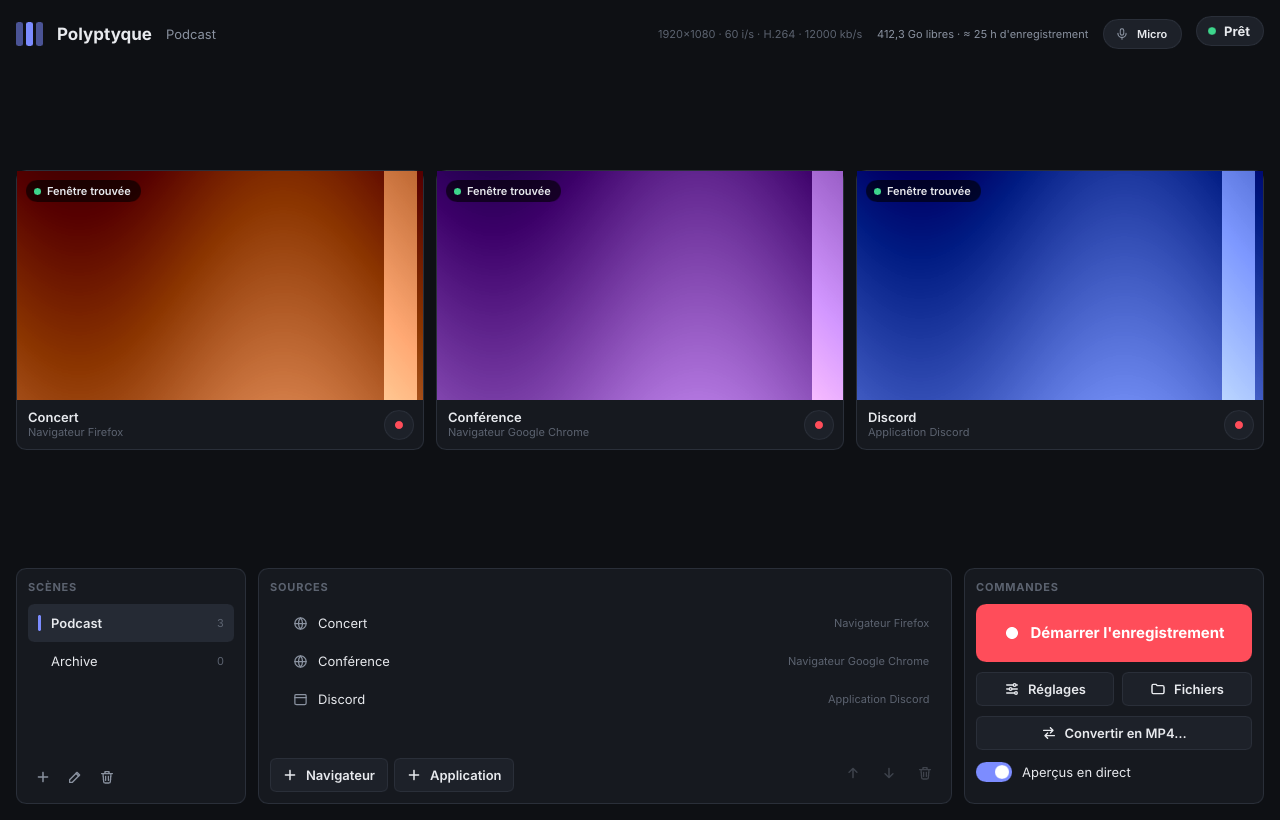
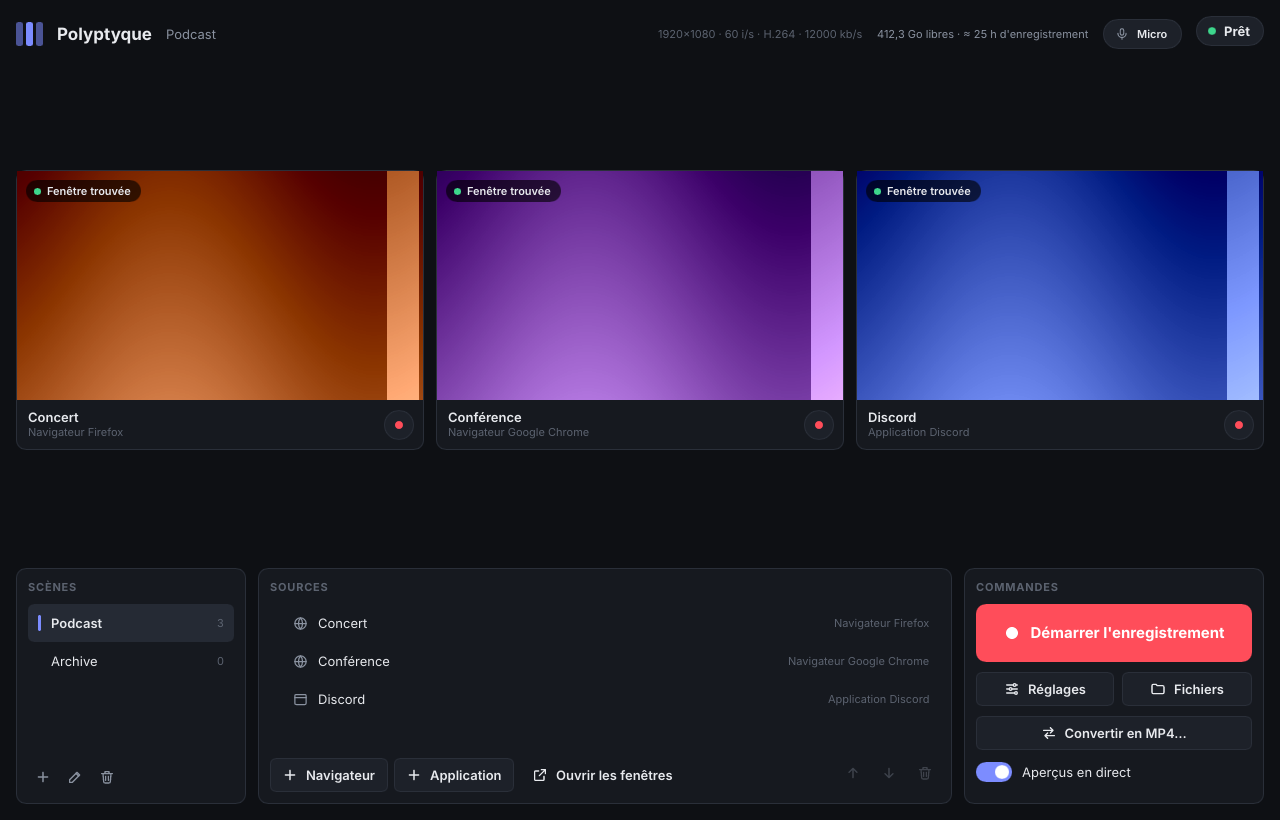
README à jour : fenêtres ouvertes au lancement, incidents, captures refaites
- « Pensé pour les longues sessions » séparé de « Résistant aux incidents »
- ouverture des fenêtres de la scène et bouton « Ouvrir les fenêtres »
- bouton « Rétablir la fenêtre » dans les limites connues
- dossier des enregistrements modifiable, bouton « Fichiers »
- partie développeurs : rôles des dossiers, tests simulés, variables de démonstration
- captures des aperçus, de l'enregistrement et des réglages refaites

Claude-Session: https://claude.ai/code/session_01VtSF5FFkXV3fAYzBFAzxV6

diff --git a/README.md b/README.md
@@ -48,17 +48,20 @@ Polyptyque fait l'inverse : **chaque fenêtre est enregistrée à part**, dans s
 **Pensé pour les longues sessions**
 - Testé sur 14 h 15 d'enregistrement continu avec trois sources : aucune coupure, fichiers calés à quelques millisecondes près, mémoire stable.
 - Fichiers écrits au fil de l'eau : un plantage ne fait perdre qu'environ une seconde, et un fichier coupé net (panne de courant) reste lisible.
+- Espace disque surveillé, avec arrêt propre s'il vient à manquer.
+- Mise en veille automatique empêchée. Une mise en veille demandée (capot fermé, bouton) ne peut pas l'être : l'enregistrement est alors arrêté proprement, et sa reprise proposée au réveil.
+- Si Windows s'éteint ou se déconnecte pendant un enregistrement, il le signale et laisse annuler ; sinon, les fichiers sont finalisés avant la fermeture.
+
+**Résistant aux incidents**
 - Après un plantage ou une coupure de courant, Polyptyque fait le bilan des fichiers au lancement suivant, propose de réparer ceux qui ont été coupés net (sans perte de qualité) et de reprendre l'enregistrement.
 - Si l'encodeur s'arrête ou se fige, Polyptyque le relance seul, dans un nouveau fichier, sans interrompre les autres sources.
 - Une fenêtre fermée ou plantée donne une image noire, puis est rattachée automatiquement dès qu'elle revient. Un navigateur fermé par erreur est rouvert tout seul ; une fenêtre réduite revient d'un clic, même si son écran a été débranché.
 - Disque externe débranché en cours de route : la suite est enregistrée dans `Vidéos\Polyptyque`.
 - Réglages protégés : version précédente et sauvegarde quotidienne, restaurées automatiquement si le fichier est abîmé.
-- Espace disque surveillé, avec arrêt propre s'il vient à manquer.
-- Mise en veille automatique empêchée. Une mise en veille demandée (capot fermé, bouton) ne peut pas l'être : l'enregistrement est alors arrêté proprement, et sa reprise proposée au réveil.
-- Si Windows s'éteint ou se déconnecte pendant un enregistrement, il le signale et laisse annuler ; sinon, les fichiers sont finalisés avant la fermeture.
 
 **Il retrouve vos fenêtres**
 - Les navigateurs sont reconnus par leur profil, pas par leur titre qui change à chaque onglet.
+- Au lancement, Polyptyque ouvre les fenêtres de la scène en cours (désactivable dans les réglages). Le bouton « Ouvrir les fenêtres » les ouvre à la demande, celui de chaque carte une seule.
 - Au démarrage d'un enregistrement, Polyptyque rouvre les fenêtres absentes : chaque navigateur revient sur ses onglets, connexions conservées.
 
 **Simple à utiliser**
@@ -116,7 +119,7 @@ Paramètres de Windows > Applications. Les scènes, les réglages et les connexi
 3. **Ouvrir les fenêtres** : au lancement, Polyptyque ouvre seul les fenêtres de la scène en cours (navigateurs, et applications avec « Relancer »). Le bouton « Ouvrir les fenêtres » du panneau des sources le fait à la demande, et celui de chaque carte ouvre une seule source. L'ouverture au lancement se désactive dans les réglages.
 4. **Démarrer l'enregistrement** : Polyptyque retrouve ou rouvre les fenêtres manquantes, puis affiche l'état de chaque source.
 5. **Tout arrêter** : les fichiers sont finalisés proprement. Le bouton rond de chaque aperçu démarre ou arrête une seule source.
-6. **Fichiers** : ils sont dans `Vidéos\Polyptyque`, un fichier MKV par source, nommés par défaut `date_heure_scène_source.mkv`.
+6. **Fichiers** : par défaut dans `Vidéos\Polyptyque` (dossier modifiable dans les réglages), un fichier MKV par source, nommés par défaut `date_heure_scène_source.mkv`. Le bouton « Fichiers » ouvre ce dossier.
 
 **Raccourcis clavier**, actifs même quand Polyptyque est en arrière-plan et modifiables dans les réglages :
 
@@ -137,7 +140,7 @@ Paramètres de Windows > Applications. Les scènes, les réglages et les connexi
 ## Limites connues
 
 - Le son est isolé **par programme**, pas par onglet : tous les onglets d'un même profil de navigateur partagent la même piste. Une source navigateur par contenu à isoler suffit à le contourner.
-- Une fenêtre réduite dans la barre des tâches n'est plus dessinée par Windows : son image se fige. Une fenêtre cachée derrière d'autres s'enregistre normalement.
+- Une fenêtre réduite dans la barre des tâches n'est plus dessinée par Windows : son image se fige, et sa carte affiche « Réduite ». Le bouton « Rétablir la fenêtre » de la carte la ramène, même pendant l'enregistrement. Une fenêtre cachée derrière d'autres s'enregistre normalement.
 - Les contenus protégés (Netflix, Disney+…) apparaissent souvent en noir.
 - Certains jeux en plein écran exclusif donnent une image noire : préférer le mode « fenêtré sans bordure ».
 
@@ -149,13 +152,13 @@ La liste complète, les choix techniques et la feuille de route sont dans le [ca
 
 | Dossier | Rôle |
 |---|---|
-| `crates/polyptyque-core` | Scènes, sources, réglages, nommage, calculs de synchronisation, commandes FFmpeg ; le contrat `Platform` que chaque système doit remplir |
-| `crates/polyptyque-windows` | Implémentation Windows : capture d'image (Windows.Graphics.Capture) et de son (WASAPI), fenêtres, navigateurs, tubes, fermeture de session |
-| `crates/polyptyque-engine` | Sessions d'enregistrement : horloge commune, capture, encodeurs FFmpeg surveillés et relancés, conversion MP4 |
-| `crates/polyptyque-app` | Interface graphique : apparence dans `ui/` (thème dans `ui/theme.slint`), logique dans `src/`, mises à jour |
+| `crates/polyptyque-core` | Scènes, sources, réglages et leurs sauvegardes, nommage, calculs de synchronisation, commandes FFmpeg, version portable, journal de la session en cours ; le contrat `Platform` que chaque système doit remplir |
+| `crates/polyptyque-windows` | Implémentation Windows : capture d'image (Windows.Graphics.Capture) et de son (WASAPI), fenêtres, navigateurs, tubes, copie unique, veille et fermeture de session |
+| `crates/polyptyque-engine` | Sessions d'enregistrement : horloge commune, capture, encodeurs FFmpeg surveillés et relancés, dossier de secours, conversion MP4 et réparation des fichiers coupés net |
+| `crates/polyptyque-app` | Interface graphique : apparence dans `ui/` (thème dans `ui/theme.slint`), logique dans `src/` (dont le bilan après un incident), mises à jour |
 | `crates/polyptyque-cli` | Version en console, livrée pour le diagnostic |
 | `assets/logo` | Logo et icônes, générés par `generer.py` |
-| `docs` | Cahier des charges et captures d'écran |
+| `docs` | Cahier des charges, analyse des risques, fiches de test et captures d'écran |
 
 Seule `polyptyque-windows` dépend du système : un portage vers macOS ou Linux consistera à écrire son équivalent.
 
@@ -171,9 +174,17 @@ Les sessions simulées rejouent des enregistrements complets avec de fausses fen
 - les durées et la synchronisation des fichiers ;
 - la conversion MP4 ;
 - l'enregistrement source par source ;
-- la reprise après un plantage ou un blocage réel de FFmpeg.
+- la reprise après un plantage ou un blocage réel de FFmpeg, et la réparation du fichier coupé net ;
+- la suite de l'enregistrement dans le dossier de secours quand le dossier choisi disparaît ;
+- le passage sur le processeur quand la carte graphique refuse un encodage.
 
-Le mode démonstration permet de développer l'interface sans Windows.
+Le mode démonstration permet de développer l'interface sans Windows. Des variables d'environnement y simulent des situations à tester :
+
+| Variable | Situation simulée |
+|---|---|
+| `POLYPTYQUE_DEMO_REDUITE` | La fenêtre de Discord est réduite |
+| `POLYPTYQUE_DEMO_PERDUE` | La fenêtre de Chrome est fermée |
+| `POLYPTYQUE_DEMO_MISE_A_JOUR` | Une nouvelle version est disponible |
 
 **Branches et fabrication**
 - `dev` reçoit le travail en cours ; `main` reçoit les versions validées.
